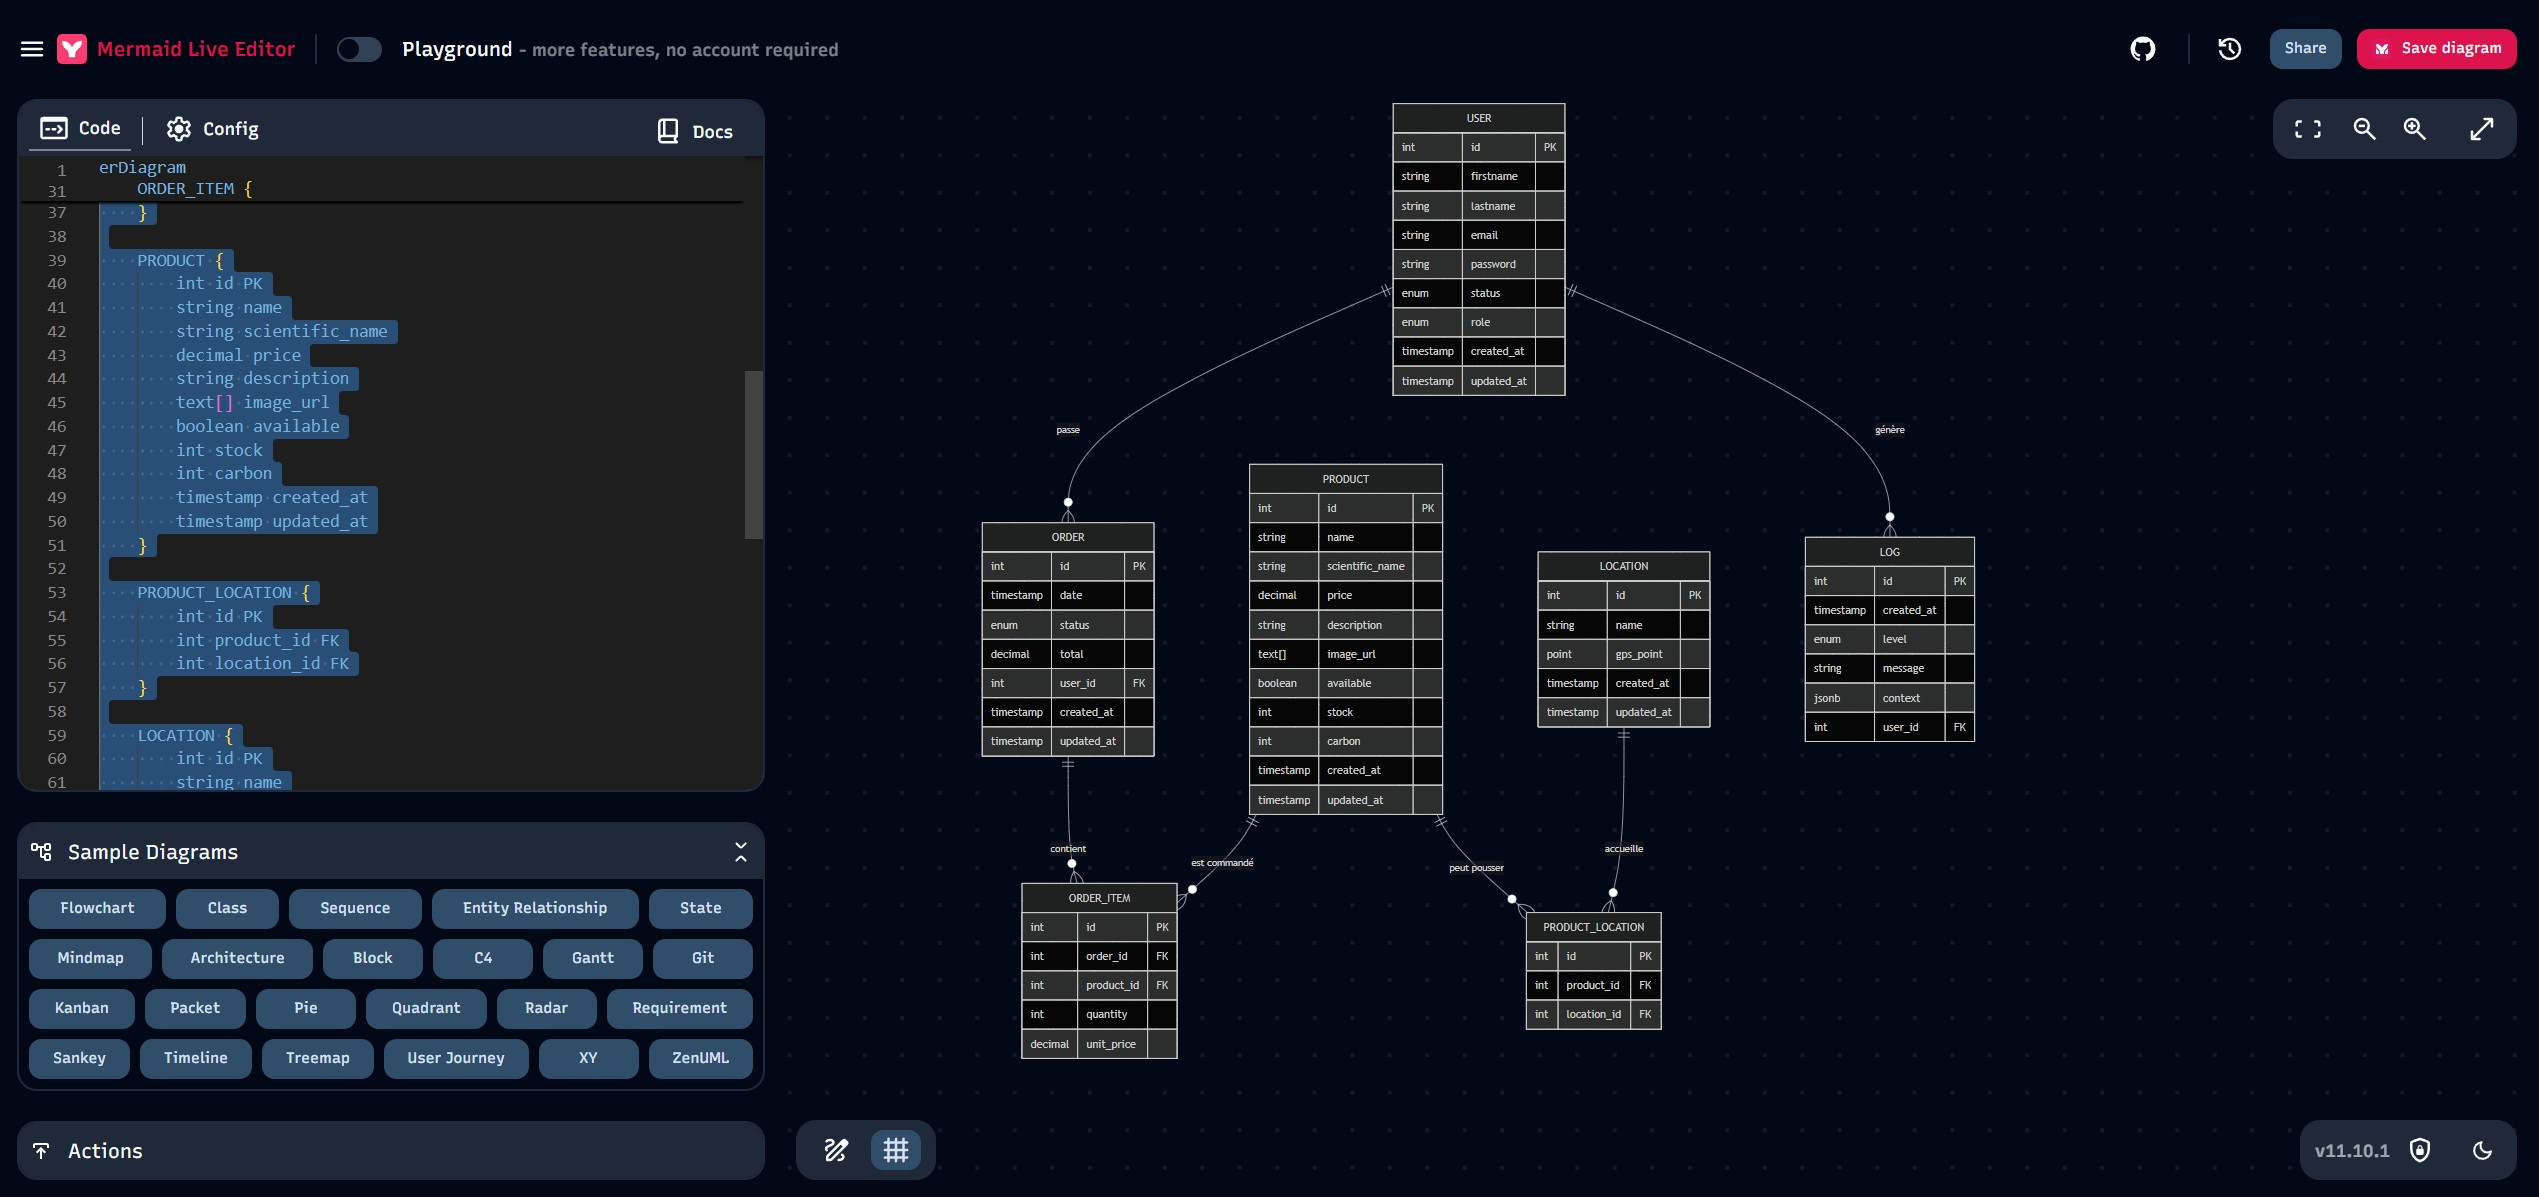
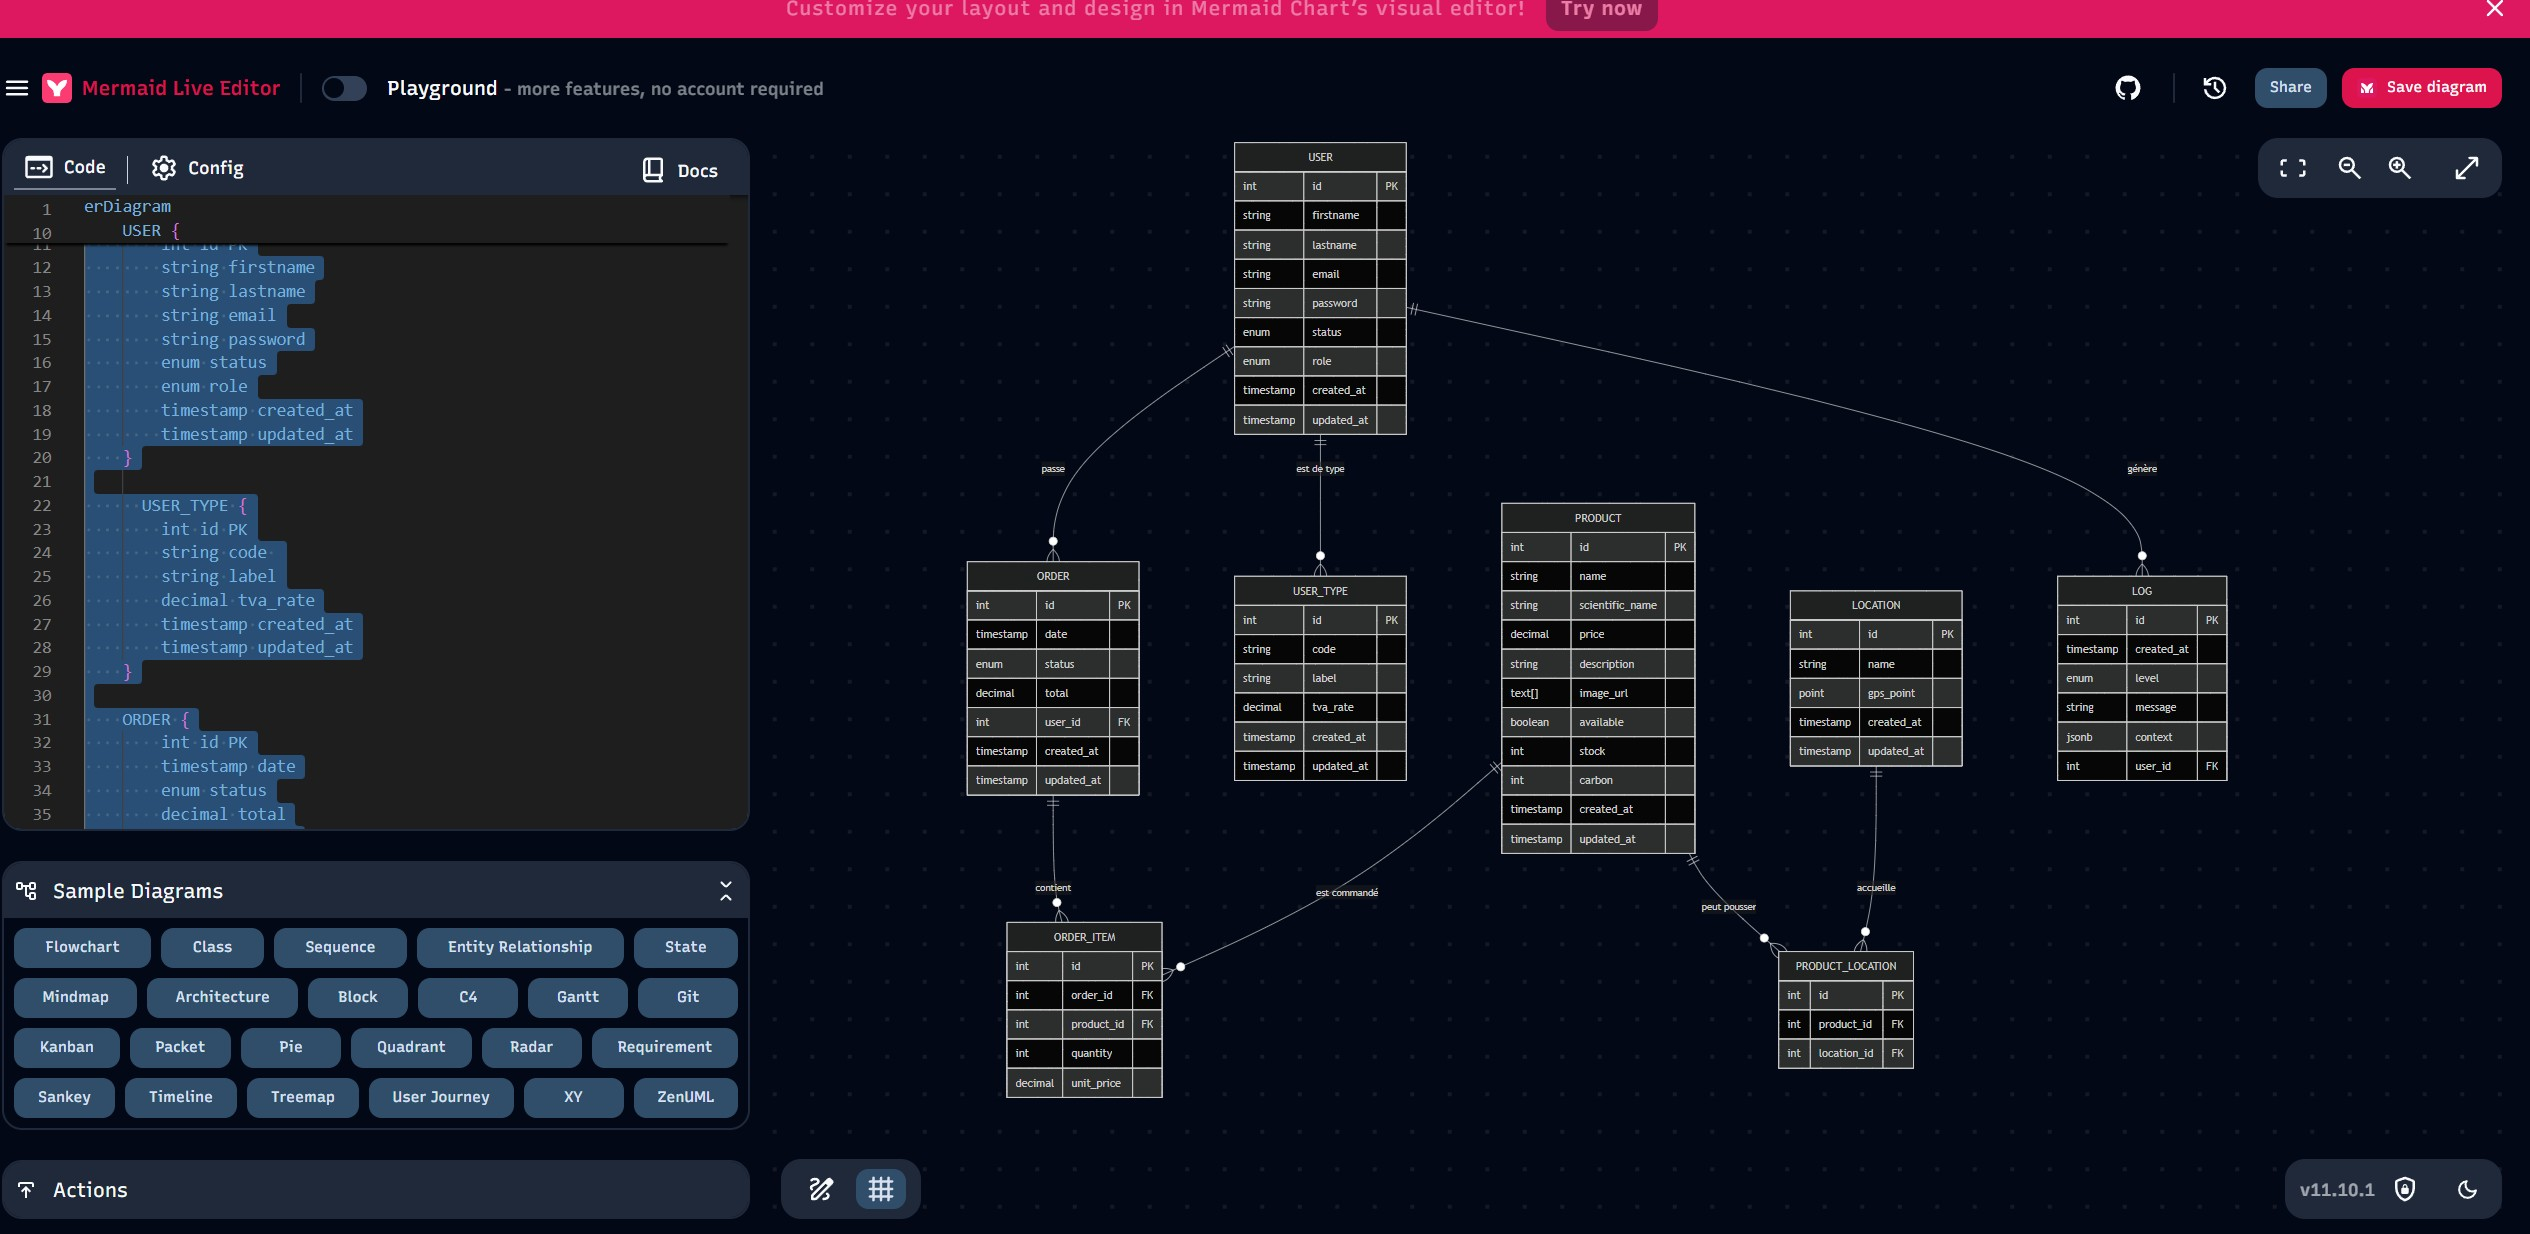
update mcd mld erd + cachier des charges

diff --git a/documents/Apothéose/Cahier_des_charges.md b/documents/Apothéose/Cahier_des_charges.md
@@ -84,28 +84,63 @@ Gestion des utilisateurs
 
 ---
 
-## 5 Contraintes techniques + Choix technologiques **\*\*\***JUSTIFIER LA PERTINENCE ET LE CHOIX\***\*\*\*\*\*\*\***
+## 5 CONTRAINTES TECHNIQUES + CHOIX TECHNOLOGIQUES
+
+- SP 0 : Le choix et la justification de l'architecture du projet (front, back, BDD)
 
 **5.1 Frontend**
--Next.js (SSR pour SEO et performance).
--React pour les composants interactifs.
--Tailwind CSS (ou MUI) pour le style.
+
+- Next.js : choisi pour sa capacité à faire du Server-Side Rendering (SSR) et du Static Site Generation (SSG), ce qui améliore le SEO (important pour être visible avec notre catalogue de produits) et les performances. C’est un standard moderne largement utilisé dans l’écosystème React.
+
+- React : framework de composants réutilisables et dynamiques, il permet de développer une interface utilisateur fluide et interactive. C’est ce que nous avons appris à l’école, ce qui garantit une bonne maîtrise.
+
+- TypeScript : améliore la robustesse du code en ajoutant du typage statique, ce qui réduit les erreurs en production et facilite la maintenance.
+
+- Tailwind CSS : choisi pour gagner du temps sur le design responsive avec des classes utilitaires, tout en gardant la possibilité de personnaliser la charte graphique.
+
+=============================> Justification pédagogique : Ce sont les technologies modernes que nous avons vues à l’école, donc nous pouvons les appliquer concrètement dans ce projet tout en respectant les standards de l’industrie.
 
 **5.2 Backend**
-Express.js (API REST).
-TypeScript pour la robustesse.
-Prisma ORM avec PostgreSQL.
-Swagger pour la documentation de l’API.
-Winston (ou équivalent) pour les logs.
+
+- Express.js : framework Node.js léger, flexible et facile à utiliser, qui permet de créer rapidement une API REST. C’est un choix pédagogique car c’est celui qui a été enseigné.
+
+- TypeScript : même justification que côté front : fiabilité, réduction des bugs, meilleure lisibilité du code.
+
+- Prisma ORM : simplifie les interactions avec la base de données PostgreSQL grâce à un mapping objet-relationnel clair et un générateur de types automatiques (sécurité supplémentaire au niveau du code et bonne synergie avec TypeScript ).
+
+- Swagger : documentation automatique de l’API pour faciliter les tests et la communication entre développeurs.
+
+- Winston : gestion centralisée des logs (erreurs, événements importants, monitoring) → bon pour le suivi et le débogage en production.
+
+=============================> Justification pédagogique : Nous avons appris Express et Prisma en cours, ce qui garantit que nous savons les utiliser. C’est aussi un choix cohérent avec la stack full JS/TS.
 
 **5.3 Base de données**
-PostgreSQL
-Modélisation MERISE → passage en modèle relationnel.
+
+- PostgreSQL : SGBD relationnel robuste, open source, adapté aux projets qui demandent de la cohérence et de l’intégrité des données (contraintes, clés étrangères).
+
+- Méthodologie MERISE : permet de structurer la base en passant par MCD → MLD → MPD.
+
+- Passage en modèle relationnel : cohérent avec PostgreSQL et facilite l’évolution du schéma.
+
+=============================> Justification pédagogique : PostgreSQL est le SGBD étudié en cours et utilisé dans de nombreux projets réels. MERISE fait partie des méthodes enseignées et permet de justifier un vrai processus de conception.
 
 **5.4 Autres contraintes**
-Authentification via JWT.
-Respect RGPD (gestion des données personnelles) + ACCESSIBILITE RGAA.
-Hébergement cloud (Vercel pour le front, Railway/Render/Docker pour l’API et la BDD).
+
+- Sécurité : respect des bonnes pratiques OWASP TOP 10 (prévention contre injections SQL, XSS, CSRF, etc.).
+
+- Authentification : via JWT + gestion des rôles (admin/member) pour sécuriser l’accès.
+
+- RGPD : protection des données personnelles (ex. anonymisation si un compte est supprimé, choix du consentement).
+
+- Accessibilité (RGAA) : garantir que l’application soit utilisable par tous (contraste, navigation clavier, aria-labels, etc.).
+
+- Hébergement Cloud :
+
+  - Vercel pour le frontend → intégré nativement avec Next.js.
+
+  - Docker pour backend + BDD → simplicité de déploiement, scalabilité, gratuit ou peu coûteux pour un projet pédagogique.
+
+=============================> Justification pédagogique : Ces contraintes sont inspirées à la fois des cours et des standards professionnels. Même si le projet reste scolaire, cela nous entraîne à respecter des normes réelles de développement web.
 
 ---
 
@@ -132,7 +167,7 @@ SPRINT 0 https://github.com/O-clock-Athenes/Projects-CDA/blob/main/.github/ISSUE
 - Les navigateurs compatibles (ECOSIA FRIENDLY ? )
 - L'arborescence de l'application (le chemin de l'utilisateur, correspondra aux routes front)
 - La liste des routes prévues (les routes front sont couvertes par l'arborescence en toute logique, restent les endpoints de votre API)
-- La liste des rôles de chacun
+
 - Wireframes
 - Maquettes
 - Charte graphique
@@ -180,7 +215,14 @@ SPRINT 0 https://github.com/O-clock-Athenes/Projects-CDA/blob/main/.github/ISSUE
 - Départ ou indisponibilité d’un membre clé
 - mort subite du nouveau née
 
-## 9 SECURITE A LIRE SOUVENT
+## 9 LISTE DES RÔLES DE CHACUN
+
+- Oumaïma : Product Owner : tranche sur les questions de produit
+- Saliha : Scrum Master : transhe sur les questions d'organisation
+- Adrien : Lead Devs : tranche sur les question techniques
+- Tarig : Lead Devs : tranche sur les question techniques
+
+## 10 SECURITE A LIRE SOUVENT
 
 - faire controle tableau images car pas de max images en BDD (controler en front avant le create / update de l'admin) et en backend via le controlleur avant envoie BDD
 - revoir RGBD suppression de données Database et voir si compte utilisateur supprimé si commande supprimé ou set nul ? commande orpheline VOIR CREATE_TABLE.SQL DELETE ON CASCADE OR SET NULL

diff --git a/documents/Apothéose/Journal_de_bord/tarig.md b/documents/Apothéose/Journal_de_bord/tarig.md
@@ -1,14 +1,26 @@
 # Journal de bord - Projet GreenRoots
 
-| Date     | Tâches                              | Tâches réalisées (faites)      | Remarques / Suivi |
-| -------- | ----------------------------------- | ------------------------------ | ----------------- |
-| 09/09/25 | rencontre membre du groupe          | xxxxxxxxxxxxxxxxxxxxxxx | xxxxxxxxxxx       |
-| 09/09/25 | définition du projet                | xxxxxxxxxxx xxxxxxxxxxxxxxxxxxxxxxxxxxx                   | xxxxxxxxxxx       |
-
-| 10/09/25 | définition du projet edit           | xxxxxxxxxxx xxxxxxxxxxx | xxx               |
-| 10/09/25 | User stories                        |    xxxxxxxxxxx xxxxxxxxxx    | xxxx              |
-| 10/09/25 | uml : diagramme user action         |    xxxxxxxxxxx xxxxxxxx  | xxxxx             |
-| 10/09/25 | uml : diagramme de séquences        | xxxxxxxxxxx xxxxxxxxxx| A REVOIR          |
-| 10/09/25 | recueil de données                  |  xxxxxxxxxxxxxxxxxxxx| A REVOIR          |
-
-| 11/09/25 | recueil de données        | Commencé la vérification stock | À finir demain    |
+| Date                 | Tâches                                                 | Tâches réalisées (faites)             | Remarques / Suivi |
+| -------------------- | ------------------------------------------------------ | ------------------------------------- | ----------------- |
+| 09/09/25             | rencontre membre du groupe                             | xxxxxxxxxxxxxxx                       | xxx               |
+| 09/09/25             | définition du projet                                   | xxx xxx                               | xxx               |
+|                      |                                                        |                                       |                   |
+| 10/09/25             | définition du projet edit                              | xxx xxx                               | xxx               |
+| 10/09/25             | User stories                                           | xxx xx                                | xxxx              |
+| 10/09/25             | uml : diagramme user action                            | xxx                                   | xxxxx             |
+| 10/09/25             | uml : diagramme de séquences                           | xxx xx                                | A REVOIR          |
+| 10/09/25             | recueil de données                                     | xxxx                                  | A REVOIR          |
+| 10/09/25             | recueil de données                                     | xxxx                                  | A REVOIR          |
+|                      |                                                        |                                       |                   |
+| 11/09/25             | recueil de données                                     | correction et update                  | xxxxxxxxxxxx      |
+| 11/09/25             | dictionnaire de données                                | correction et update                  |                   |
+| 11/09/25             | cachier des charges nouveau                            | meilleur structure + ajout risque etc |                   |
+| 11/09/25             | MCD                                                    | Commencé la vérification stock        |                   |
+| 11/09/25             | MLD                                                    | Commencé la vérification stock        |                   |
+| 11/09/25             | MPD                                                    | Commencé la vérification stock        |                   |
+| 11/09/25             | ERD                                                    | Commencé la vérification stock        |                   |
+|                      |                                                        |                                       |                   |
+| 12/09/25             | dictionnaire de données + MCD + MLD + MPD + ERD UPDATE | correction et update                  |                   |
+| 12/09/25             | dictionnaire de données + MCD + MLD + MPD + ERD UPDATE | correction et update                  |                   |
+| 12/09/25             | - La liste des rôles de chacun                         |
+| correction et update |                                                        |
